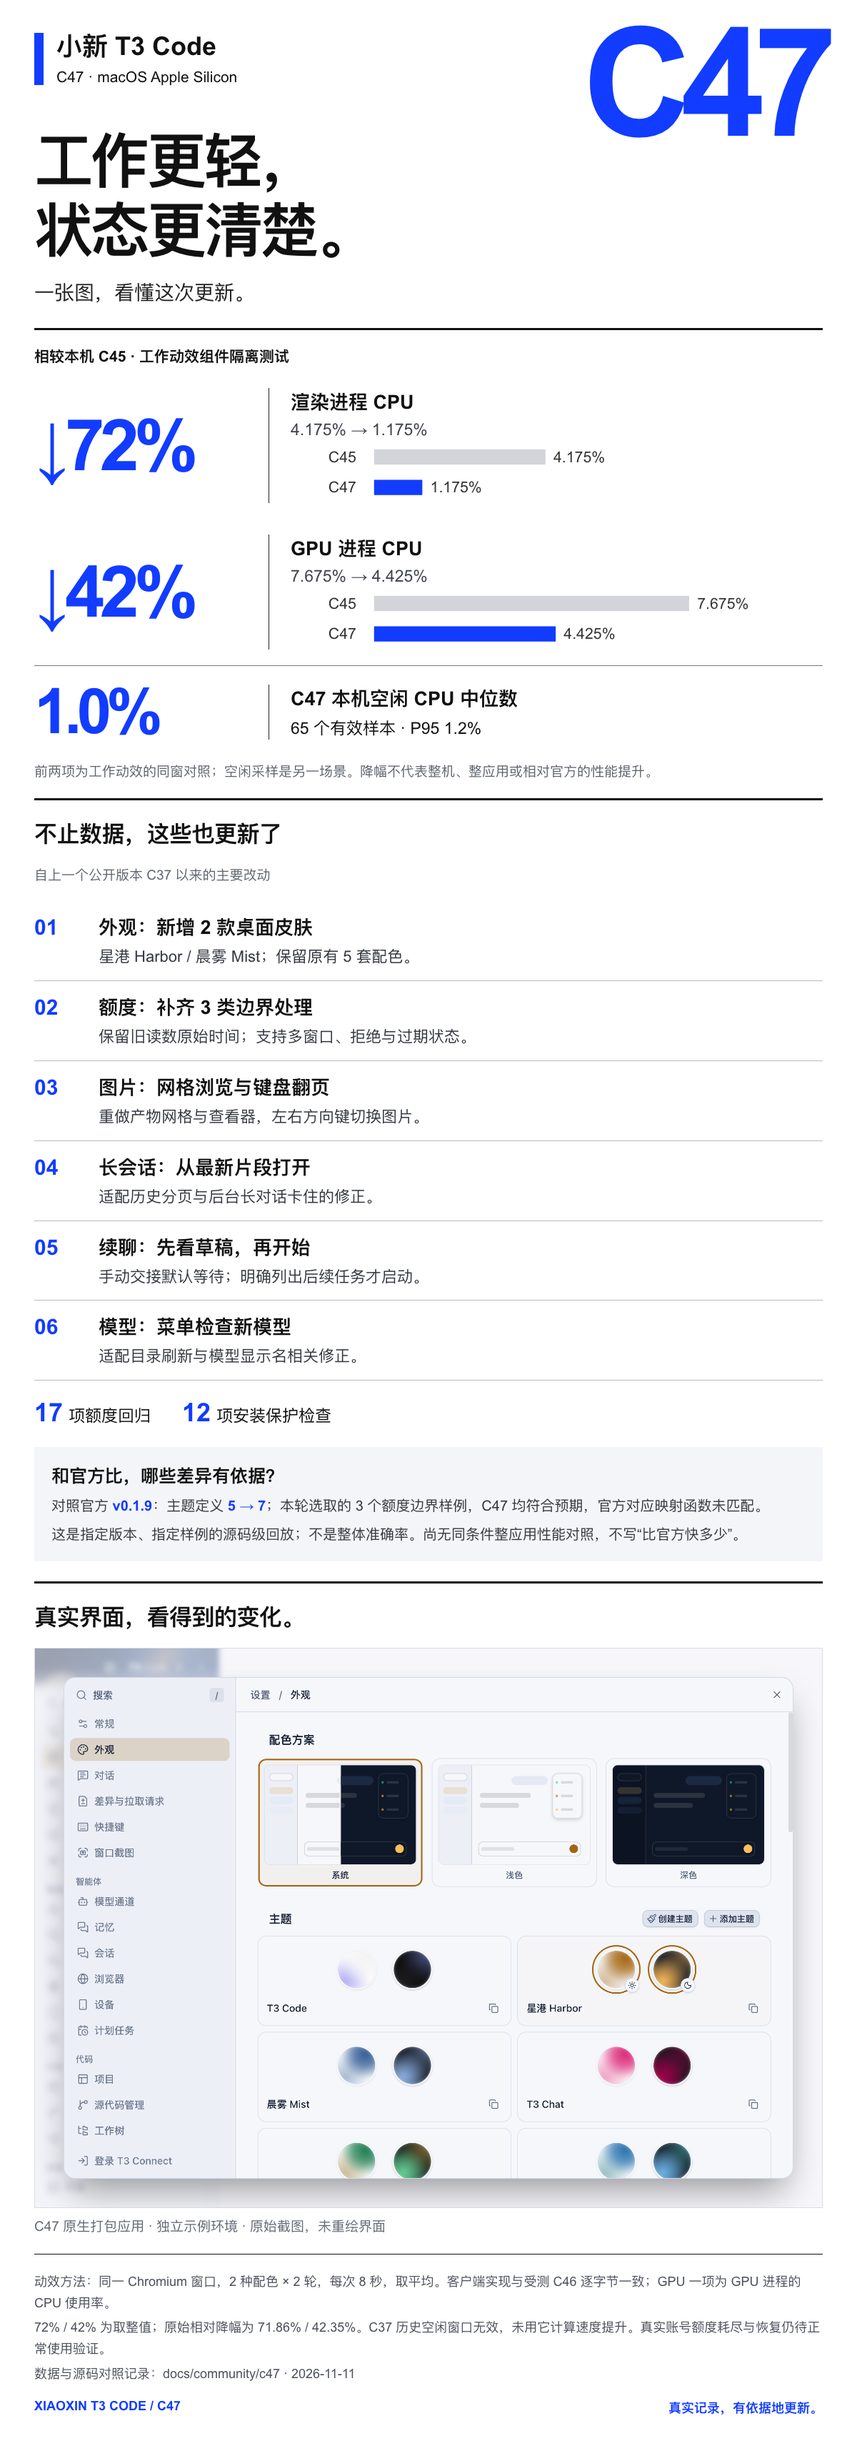
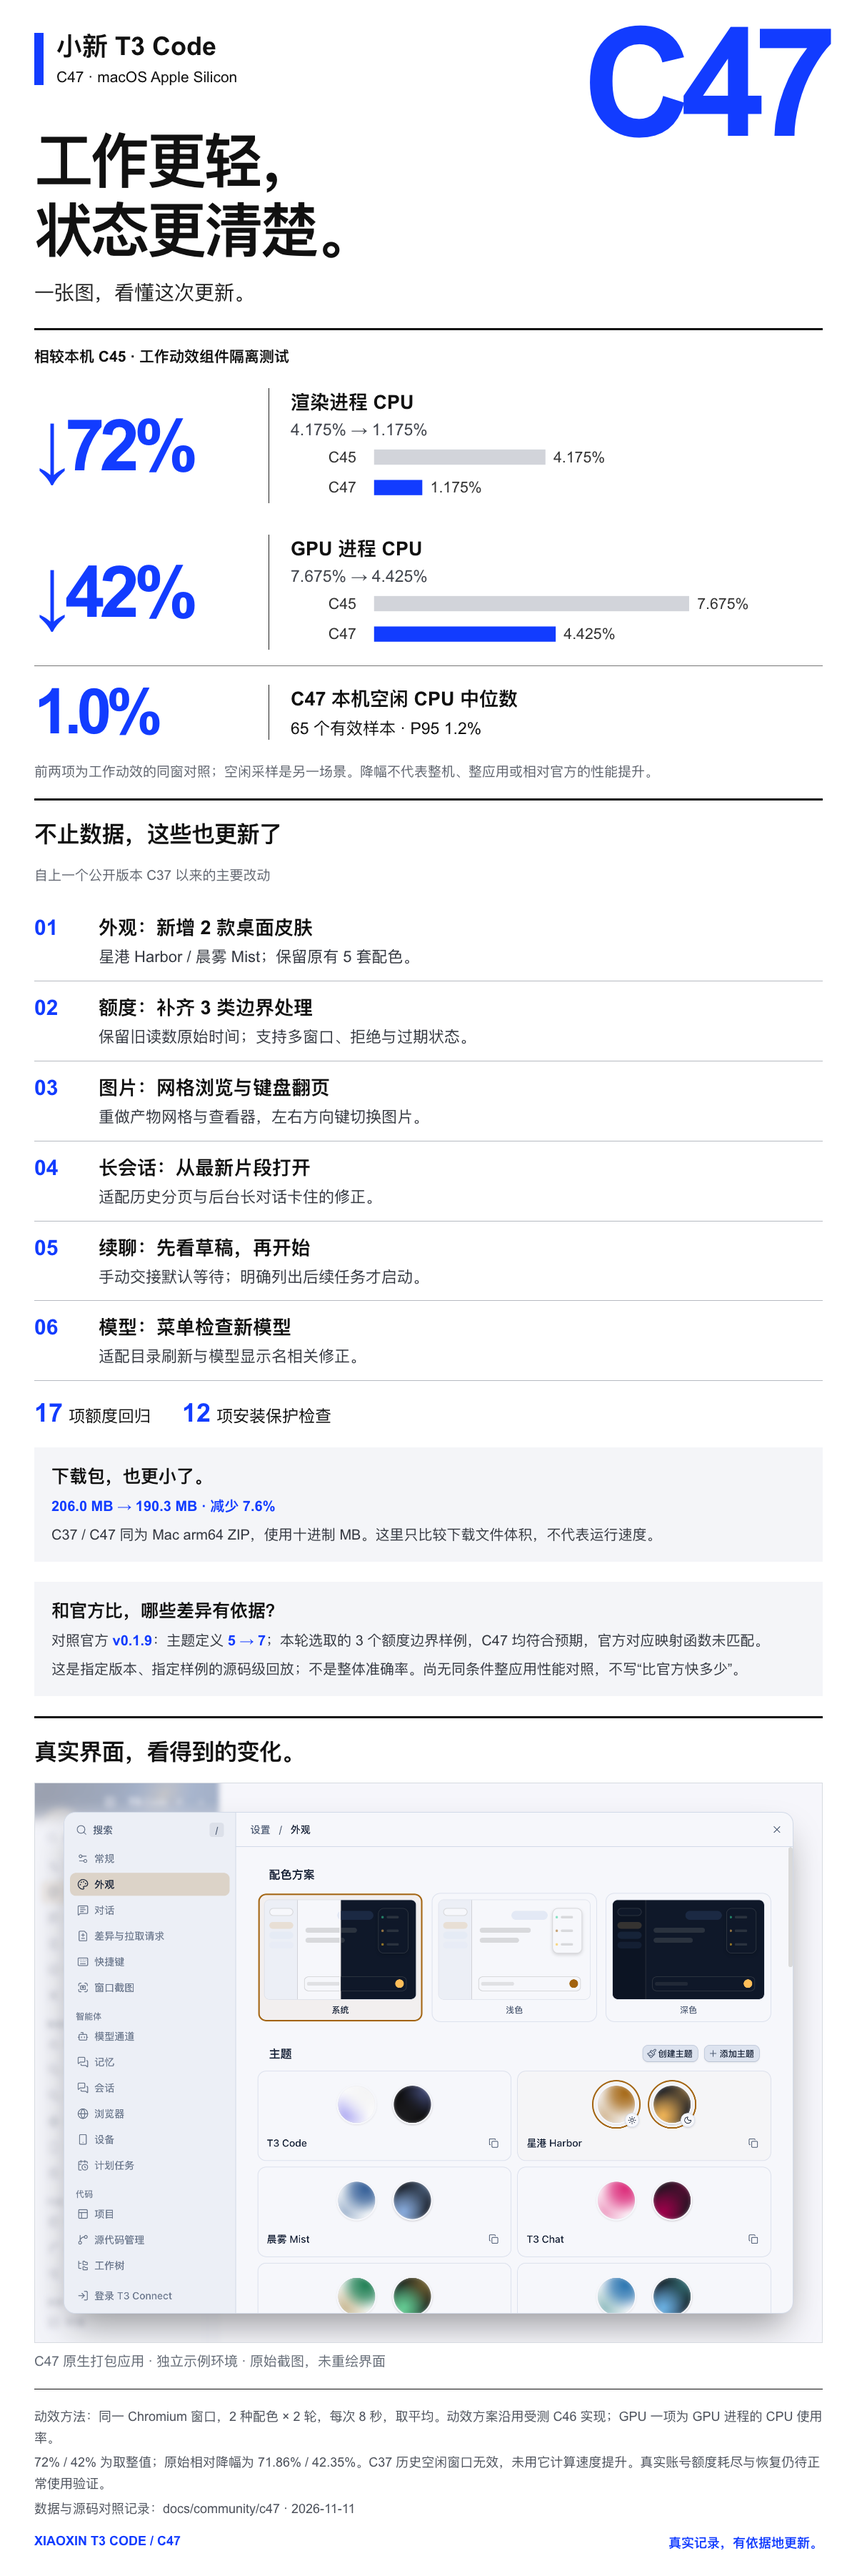
release: publish C47 downloads, measured comparisons and illustrated upgrade guide

diff --git a/README.en.md b/README.en.md
@@ -1,24 +1,22 @@
 # Xiaoxin T3 Code · Community Edition
 
-**Source updated to C47; current downloadable community installer: C37 · two interface styles.** Choose Current style or macOS style in Appearance → Interface. For Apple Silicon Mac.
+**Current community release: C47 · quota fixes, lighter motion and two desktop skins.** For Apple Silicon Mac.
 
-[Download C37 · macOS Apple Silicon](https://github.com/zds-xiaoxin/xiaoxin-t3code/releases/latest) · [Installation and validation scope](docs/community/c37/RELEASE.en.md) · [简体中文](README.md)
+[Download C47 · macOS Apple Silicon](https://github.com/zds-xiaoxin/xiaoxin-t3code/releases/latest) · [Installation and validation scope](docs/community/c47/RELEASE.en.md) · [简体中文](README.md)
 
-C37 is the Xiaoxin community release number, based on upstream `0.1.7-nightly.20261103.4119`. Community release status and the upstream version channel are stated separately; see the release notes for known limits.
+C47 is the community release number; embedded upstream version remains `0.1.7-nightly.20261103.4119` with selected later fixes, not upstreamv0.1.9. Current source, installer and build provenance are supplied together.
 
 <a id="feature-showcase"></a>
 
 <!-- showcase:overview -->
 
-![Actual C37 workbench: conversation, task progress and context](assets/community/c37/01-workbench.png)
+![C47 update: data, changes and actual interface](assets/community/c47/01-update-card-A.png)
 
-_Actual C37 compiled UI with an isolated sample project and conversation; no UI redraw._
+_C47 release card: measured data, concrete changes and an authentic screenshot of the application extracted from the actual ZIP. Previous gallery images remain version-labelled._
 
-## C47 source update: lighter motion, more reliable quota state
+## C47 update: lighter motion, more reliable quota state
 
-**C47 source is updated and the maintainer's installation/runtime checks passed; the public installer below remains C37.** Its embedded upstream version remains `0.1.7-nightly.20261103.4119` with selected later patches. It does not claim to be upstream stable `v0.1.9`.
-
-![C47 measured component CPU comparison and installed idle verification](assets/community/c47/01-update-card-A.png)
+**C47 source, downloadable installer and build provenance are updated together.** Its embedded upstream version remains `0.1.7-nightly.20261103.4119` with selected later patches. It does not claim to be upstream stable `v0.1.9`.
 
 _White/black/cobalt release card with data-exact plots and an authentic native screenshot. The two reductions describe an isolated activity-strip component, not whole-app, whole-system or upstream-relative performance._
 
@@ -27,7 +25,7 @@ _White/black/cobalt release card with data-exact plots and an authentic native s
 | Working strip: mean renderer CPU    | 4.175% |             1.175% | **71.86% lower** |
 | Working strip: mean GPU-process CPU | 7.675% |             4.425% | **42.35% lower** |
 
-Same headful Chromium window; two skins × two rounds; 8 seconds per sample; mean of four samples per version. GPU-process CPU is not GPU utilization. C47 client files are byte-identical to the measured C46 implementation. Separately, the installed C47 renderer passed an idle window of 65 samples: median **1.0%**, P95 **1.2%**. These are different workloads.
+Same headful Chromium window; two skins × two rounds; 8 seconds per sample; mean of four samples per version. GPU-process CPU is not GPU utilization. C47 public client assets were rebuilt from final source; normalized component CSS and logic retain the measured implementation. Separately, the installed C47 renderer passed an idle window of 65 samples: median **1.0%**, P95 **1.2%**. These are different workloads.
 
 ### Previous public C37 → C47
 
@@ -54,6 +52,12 @@ Fixtures cover unified windows without top-level utilization, a rejected event w
 [Open the original native screenshot embedded in the card](assets/community/c47/02-themes-native.png)
 
 _Unedited packaged native C47 capture with an isolated fixture and no private accounts, balances or chats. All nine previous feature illustrations remain below, with their original version labels._
+
+### Historical C37 workbench overview
+
+![Actual C37 workbench: conversation, task progress and context](assets/community/c37/01-workbench.png)
+
+_Actual C37 compiled UI with an isolated fixture, retained as historical feature coverage. Current C47 changes are shown in the card above._
 
 ## See the workbench features
 
@@ -141,19 +145,18 @@ _Actual C37 Chinese Appearance settings showing Current style / macOS style._
 
 ## Download and use
 
-- **C37 community release:** [Apple Silicon ZIP](https://github.com/zds-xiaoxin/xiaoxin-t3code/releases/tag/xiaoxin-c37-macos-test-20261103) and [C37 installation notes](docs/community/c37/RELEASE.en.md). Updates are manual. Do not open data already upgraded by C37 with C31.
-- **Previous stable C31 · Apple Silicon Mac:** download `Xiaoxin-T3-Code-C31-macOS-arm64.zip` from the [C31 historical release](https://github.com/zds-xiaoxin/xiaoxin-t3code/releases/tag/xiaoxin-c31-20261031) and verify its SHA-256.
-- **Windows x64:** [C31-W1 test release](https://github.com/zds-xiaoxin/xiaoxin-t3code/releases/tag/xiaoxin-c31-windows-test-20261031) · [Windows source and concepts](https://github.com/zds-xiaoxin/xiaoxin-t3code/tree/community/windows-c31-w1). Windows testing and the recommended Mac release are published separately.
-- Finish tasks and quit T3 before replacing the Mac application. Retain the previous application for rollback and preserve chats, authentication and configuration. Users supply their own provider CLIs and authentication.
-- The Mac application is ad-hoc signed and not Apple-notarized. See the release notes for supported platforms, installation and verification limits.
+- **C47 · Apple Silicon Mac:** [download the latest ZIP](https://github.com/zds-xiaoxin/xiaoxin-t3code/releases/tag/xiaoxin-c47-macos-20261111), verify SHA256SUMS.txt and read the [installation/provenance notes](docs/community/c47/RELEASE.en.md). Updates are manual.
+- **Previous public Mac C37:** [historical release](https://github.com/zds-xiaoxin/xiaoxin-t3code/releases/tag/xiaoxin-c37-macos-test-20261103). C47schema79 supersedes C37schema78; do not open upgraded data with the older app.
+- **Earlier Mac C31:** [history and rollback reference](https://github.com/zds-xiaoxin/xiaoxin-t3code/releases/tag/xiaoxin-c31-20261031). Never overwrite new chats with an old database.
+- **Windows x64:** [existing C35-W2 test release](https://github.com/zds-xiaoxin/xiaoxin-t3code/releases/tag/xiaoxin-c35-windows-test-20261102). No new C47Windows,IntelMac orLinux binary is claimed.
+- Finish tasks,quit completely,make a cold backup and retain the previous app before upgrading. Users supply their own provider CLI/login. No maintainer personal data is included.
+- Ad-hoc signed,not Apple-notarized. Follow macOS Privacy&Security prompts; do not disable system-wide protections or grant FullDiskAccess merely to install.
 
-## Verification and known issues
+## Verification and known limits
 
-See [C37 validation notes](docs/community/c37/RELEASE.en.md) for its styles, packaging and acceptance scope; strict idle CPU acceptance remains unconfirmed.
+The C47 ZIP is190.3decimalMB versus publicC37's206.0MB(-7.62%), same architecture/archive format,not runtime speed. CRC,164regular-file hashes/modes,14symlink targets,extracted strict signature,privacy scanning and isolated native startup passed. The native PTY loaded and spawned a fixture shell.
 
-The following evidence applies only to the previous stable C31: its files matched the maintainer's then-installed C31 byte for byte. That same application passed real Mac first/second-turn reply visibility without refresh and readback of a formerly failed thread. The distribution additionally passed isolated startup, signature, ZIP integrity and member-hash checks.
-
-233 focused tests,20 React Compiler checks and typechecks for7 packages passed. Formatting, lint and knip findings remain documented in the C31 notes. Recommended release status does not establish every-provider, every-size or universal scenario coverage.
+[Release validation](docs/community/c47/RELEASE.en.md) · [Methods and reproducible fixtures](docs/community/c47/BENCHMARK.en.md) · [Live source CI](https://github.com/zds-xiaoxin/xiaoxin-t3code/actions/runs/43033315668). No real account or paid model was used in this distribution acceptance. Live quota exhaustion/reset and optional T3Connect login remain separately scoped.
 
 ## History and upstream
 

diff --git a/docs/community/c47/RELEASE.zh.md b/docs/community/c47/RELEASE.zh.md
@@ -1,0 +1,52 @@
+# Xiaoxin T3 Code C47 · Mac Apple Silicon 社区版
+
+2026-11-11 · macOS arm64 · [English](RELEASE.en.md)
+
+<!-- community-showcase -->
+
+![C47 更新总览 / C47 update card](https://raw.githubusercontent.com/zds-xiaoxin/xiaoxin-t3code/main/assets/community/c47/01-update-card-A.png)
+[完整功能图集 / Full feature gallery](https://github.com/zds-xiaoxin/xiaoxin-t3code#feature-showcase)
+<!-- /community-showcase -->
+
+## 下载什么
+
+下载本页 **`Xiaoxin-T3-Code-C47-macOS-arm64.zip`**（190.3 MB，十进制），按 `SHA256SUMS.txt` 校验 SHA-256。解压得到 `T3 Code (Alpha).app`。同页 `BUILD-PROVENANCE.json` 绑定源码提交、包哈希和验证范围。
+
+源码提交：[`9058ea87621b`](https://github.com/zds-xiaoxin/xiaoxin-t3code/commit/9058ea87621b2abf9d602694972a54afbd48a9d1)。C47 为社区编号；内嵌上游版本仍为 `0.1.7-nightly.20261103.4119`，并定向适配后续修正，不能等同于官方 v0.1.9。
+
+## 这次改了什么
+
+- **额度读数**：保留匹配缓存的原始观察时间，避免旧百分比覆盖较新的耗尽状态；处理多窗口和拒绝事件，标记过期启动读数。
+- **工作动效**：高光通过合成层移动，减少文字逐帧重绘；保留进出场、进度与完成反馈。
+- **外观与图片**：新增星港 / 晨雾两款桌面皮肤，产物网格和图片查看器支持方向键翻页。
+- **长会话与续聊**：包括历史分页、后台长对话、模型目录刷新和手动交接先草稿后启动的适配。
+- **只读工具一致性**：补齐已声明只读的 `memory_list`，原清单一致性测试通过，未弱化断言。
+
+## 有范围的数据对比
+
+| 项目                  |         之前 |                   本次 | 范围                                |
+| --------------------- | -----------: | ---------------------: | ----------------------------------- |
+| 工作动效渲染进程 CPU  |       4.175% |      1.175%（-71.86%） | C45 对比受测优化组件，4 次8秒均值   |
+| 工作动效 GPU 进程 CPU |       7.675% |      4.425%（-42.35%） | 同一窗口、两种配色；不是 GPU 利用率 |
+| Mac arm64 ZIP 体积    | C37 206.0 MB | C47 190.3 MB（-7.62%） | 同架构、同为 ditto ZIP；十进制MB    |
+
+这些动效数据来自已记录的组件隔离实验。最终公开包已从修正源码重新构建，资产哈希不同；动效组件的格式归一化 CSS 和逻辑保持一致，不把它说成整应用或相对官方的提速。
+
+本机已安装 C47 的严格空闲窗口有65个有效样本，中位数1.0%、P951.2%；这属于另一场景与已记录构建，不保证所有设备或本次重建包得到同值。官方 v0.1.9 对照只涵盖指定主题定义和3个纯映射边界样例，不是整体准确率。方法、原始数据和复现实例在仓库 `docs/community/c47`。
+
+## 安装、升级与回退
+
+1. 仅支持 Apple Silicon Mac；应用声明最低 macOS13.0，本轮未覆盖所有系统版本。没有本轮 Intel / Windows / Linux 安装包。
+2. 新用户移入“应用程序”后使用自己的模型 CLI、账号和配置；包内没有维护者账号、聊天、密钥或独立安装助手。
+3. 升级用户先结束任务、完全退出 T3，冷备份 `~/.t3` 与 `~/Library/Application Support/t3code-v2`，保留旧 App，再替换；只运行一个实例。
+4. C47 数据库为schema79，旧公开 C37 为schema78。**不要让旧 App 直接读取升级后的数据，也不要用旧库覆盖升级后产生的新聊天。** 回退须使用匹配版本和同时点备份。
+5. 发布包采用 ad-hoc 签名，未经过 Apple 公证。遇系统拦截时按 macOS“隐私与安全性”提示处理，不需要关闭系统整体安全保护或授予完全磁盘访问。
+6. **本发行采用手动更新**；上游自动更新源已在公开副本中禁用，防止覆盖社区定制。继续从本仓库下载新版。
+
+## 验证与限制
+
+ZIP CRC、164个普通文件内容和权限、14个符号链接目标，以及解压后深度严格签名均通过。隐私扫描2124个条目未发现维护者私有路径、账号或凭据；node-pty只移除了调试符号，代码段、导出和架构核验一致。解压后的实际应用完成隔离原生启动、双主题切换、HTTP200及终端原生模块加载/示例 shell 验证，未调用真实模型、未使用真实账号。
+
+额度17项回归与安装保护12项检查属于不同范围；与其他测试集有重叠，不相加宣传覆盖率。源码CI状态请看[本次源码检查](https://github.com/zds-xiaoxin/xiaoxin-t3code/actions/runs/43033315668)，本说明不把尚未结束的作业写成已通过。真实账号额度耗尽/恢复仍待正常使用观察；T3 Connect登录和通行密钥未重新验收。
+
[1 lines of base64/hex data omitted]

diff --git a/docs/community/c47/RELEASE.en.md b/docs/community/c47/RELEASE.en.md
@@ -1,0 +1,23 @@
+# Xiaoxin T3 Code C47 · Mac Apple Silicon community release
+
+2026-11-11 · macOS arm64 · [简体中文](RELEASE.zh.md)
+
+<!-- community-showcase -->
+
+![C47 更新总览 / C47 update card](https://raw.githubusercontent.com/zds-xiaoxin/xiaoxin-t3code/main/assets/community/c47/01-update-card-A.png)
+[完整功能图集 / Full feature gallery](https://github.com/zds-xiaoxin/xiaoxin-t3code#feature-showcase)
+<!-- /community-showcase -->
+
+Download **`Xiaoxin-T3-Code-C47-macOS-arm64.zip`** (190.3 decimal MB), verify it with SHA256SUMS.txt, and extract T3 Code (Alpha).app. BUILD-PROVENANCE.json binds source, archive and validation scope. Source: [9058ea87621b](https://github.com/zds-xiaoxin/xiaoxin-t3code/commit/9058ea87621b2abf9d602694972a54afbd48a9d1). Embedded upstream version remains 0.1.7-nightly.20261103.4119 with selected later fixes, not upstreamv0.1.9.
+
+Changes include stale Claude quota observation time, unified windows/rejection events, unavailable stale startup readings, compositor-based activity glint, Harbor/Mist skins, the artifact grid/viewer and arrow navigation. Since public C37, selected long-thread paging, background-thread, model-catalog and manual-handoff fixes are included. The annotated read-only memory_list tool now matches the unchanged equality assertion.
+
+Recorded component A/B means: renderer CPU4.175→1.175%(-71.86%), GPU-process CPU7.675→4.425%(-42.35%), two skins×two8s observations in one window. These are isolated component measurements, not GPU utilization or whole-app/upstream performance. Final web assets were rebuilt and differ in hash; normalized component CSS and logic remain equivalent. Local installed C47 idle evidence was65samples,median1.0%,P951.2%, a separate workload/build and not a guarantee for this public rebuild or every device. The archive shrank from C37's205,956,114bytes to190,264,771bytes(-7.62%), same architecture and ditto ZIP format; this is download size, not runtime speed.
+
+Apple Silicon only; declared minimum macOS13.0, not every OS version tested. No new Intel/Windows/Linux binary. Users supply their own provider CLI and login; no maintainer account, profile, credential or installer helper is included. Before upgrading, finish tasks, quit completely, retain the old app and cold-back up ~/.t3 and ~/Library/Application Support/t3code-v2. C47schema79 supersedes public C37schema78. Never open upgraded data with an incompatible old app or overwrite new chats with an old database.
+
+Ad-hoc signed, not Apple notarized. Use macOS Privacy & Security prompts if needed; do not disable system-wide protections or grant Full Disk Access just to install. Updates are manual; the upstream automatic feed is disabled in this distribution.
+
+ZIP CRC, all164regular-file hashes/modes and14symlink targets, and extracted deep/strict signature passed.2124privacy-scanned entries had no maintainer paths/accounts/credentials. Only node-pty debug symbols were removed; native code/data sections, exports and architecture were verified unchanged. The actual extracted application passed isolated native startup, both skins,HTTP200,and native PTY load/fixture-shell execution with no real account/model request.17quota regressions and12installer-protection checks overlap other sets and must not be added as a coverage score. [Source CI](https://github.com/zds-xiaoxin/xiaoxin-t3code/actions/runs/43033315668) is reported independently; unfinished jobs are not claimed passed. Live-account exhaustion/reset observation and optional T3 Connect/passkey validation remain outside this pass.
+
[1 lines of base64/hex data omitted]

diff --git a/docs/community/c47/BENCHMARK.zh.md b/docs/community/c47/BENCHMARK.zh.md
@@ -16,7 +16,7 @@ These results describe a local build, a narrowly isolated UI component and three
 
 ## Component experiment
 
-The same headful Chromium page alternated the shipped C45 activity-strip CSS/markup with the optimized C46 implementation. Viewport900×700 CSS px, scale2; Harbor and Mist; two rounds per skin; 1.5s settling plus8s sampling. Process CPU time deltas from CDP SystemInfo were divided by elapsed seconds. Pooling the four observations per version gives renderer4.175→1.175% and GPU-process CPU7.675→4.425%. Reductions are71.8563% and42.3453%, rounded to72%/42% in the poster. Raw observations are in strip-cpu-raw.json. The installed C47 uses byte-identical C46 client assets. Small samples, background load, browser/GPU configuration and hardware can change these values. No energy, battery-life, throughput or whole-app improvement was measured.
+The same headful Chromium page alternated the shipped C45 activity-strip CSS/markup with the optimized C46 implementation. Viewport900×700 CSS px, scale2; Harbor and Mist; two rounds per skin; 1.5s settling plus8s sampling. Process CPU time deltas from CDP SystemInfo were divided by elapsed seconds. Pooling the four observations per version gives renderer4.175→1.175% and GPU-process CPU7.675→4.425%. Reductions are71.8563% and42.3453%, rounded to72%/42% in the poster. Raw observations are in strip-cpu-raw.json. The final public web assets were rebuilt and differ in hash; the measured component logic and normalized CSS remain equivalent. Small samples, background load, browser/GPU configuration and hardware can change these values. No energy, battery-life, throughput or whole-app improvement was measured.
 
 ## Installed idle window
 

diff --git a/docs/community/c47/BENCHMARK.en.md b/docs/community/c47/BENCHMARK.en.md
@@ -4,7 +4,7 @@ These results describe a local build, a narrowly isolated UI component and three
 
 ## Component experiment
 
-The same headful Chromium page alternated the shipped C45 activity-strip CSS/markup with the optimized C46 implementation. Viewport900×700 CSS px, scale2; Harbor and Mist; two rounds per skin; 1.5s settling plus8s sampling. Process CPU time deltas from CDP SystemInfo were divided by elapsed seconds. Pooling the four observations per version gives renderer4.175→1.175% and GPU-process CPU7.675→4.425%. Reductions are71.8563% and42.3453%, rounded to72%/42% in the poster. Raw observations are in strip-cpu-raw.json. The installed C47 uses byte-identical C46 client assets. Small samples, background load, browser/GPU configuration and hardware can change these values. No energy, battery-life, throughput or whole-app improvement was measured.
+The same headful Chromium page alternated the shipped C45 activity-strip CSS/markup with the optimized C46 implementation. Viewport900×700 CSS px, scale2; Harbor and Mist; two rounds per skin; 1.5s settling plus8s sampling. Process CPU time deltas from CDP SystemInfo were divided by elapsed seconds. Pooling the four observations per version gives renderer4.175→1.175% and GPU-process CPU7.675→4.425%. Reductions are71.8563% and42.3453%, rounded to72%/42% in the poster. Raw observations are in strip-cpu-raw.json. The final public web assets were rebuilt and differ in hash; the measured component logic and normalized CSS remain equivalent. Small samples, background load, browser/GPU configuration and hardware can change these values. No energy, battery-life, throughput or whole-app improvement was measured.
 
 ## Installed idle window
 
